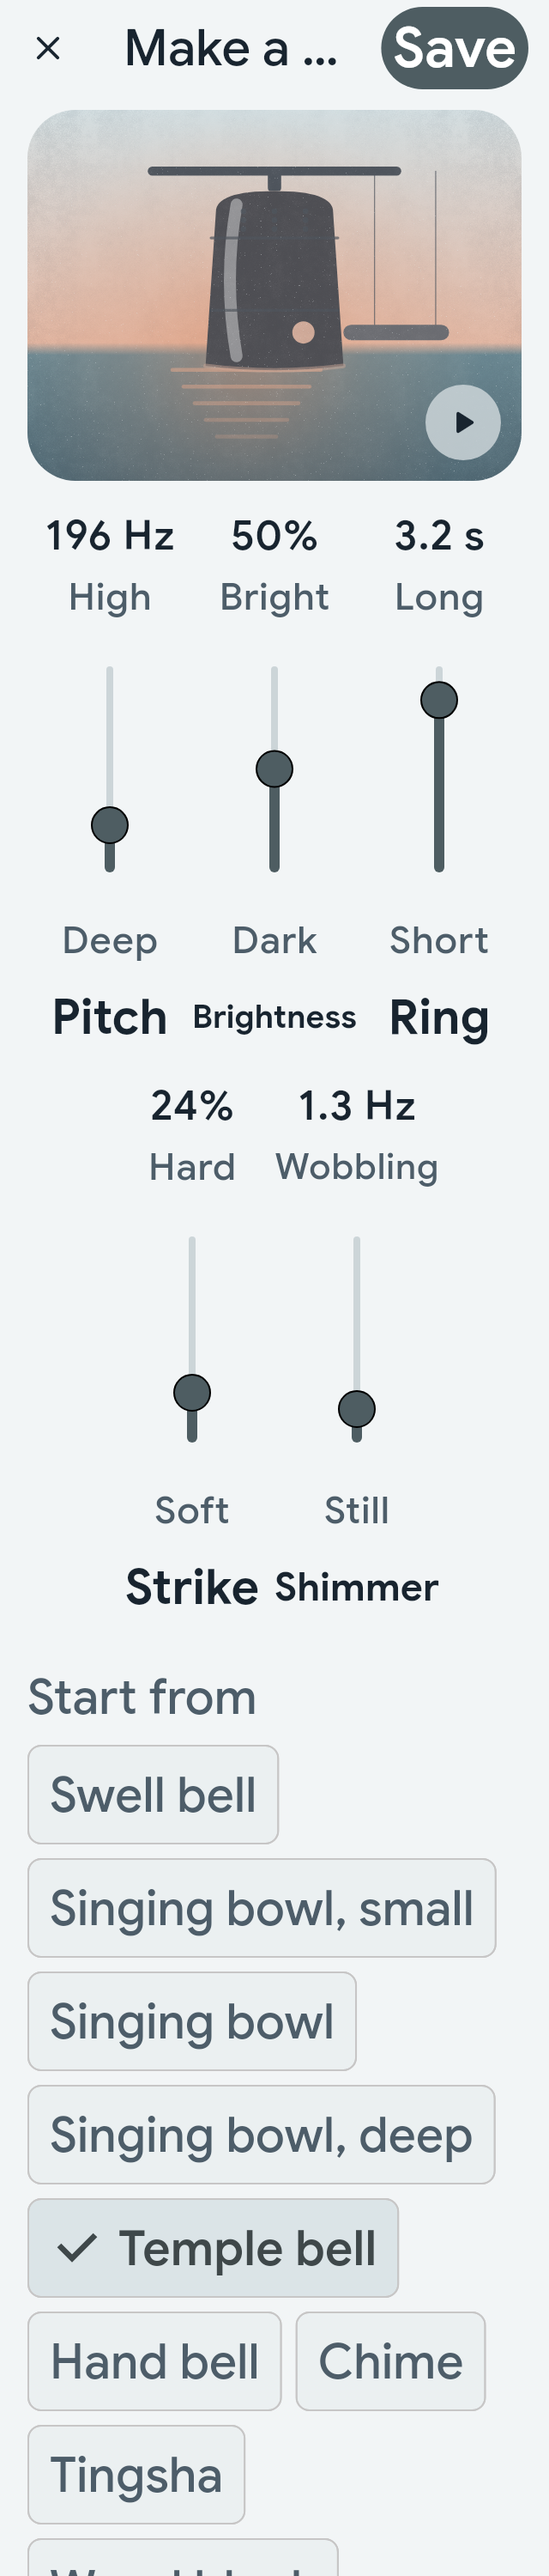
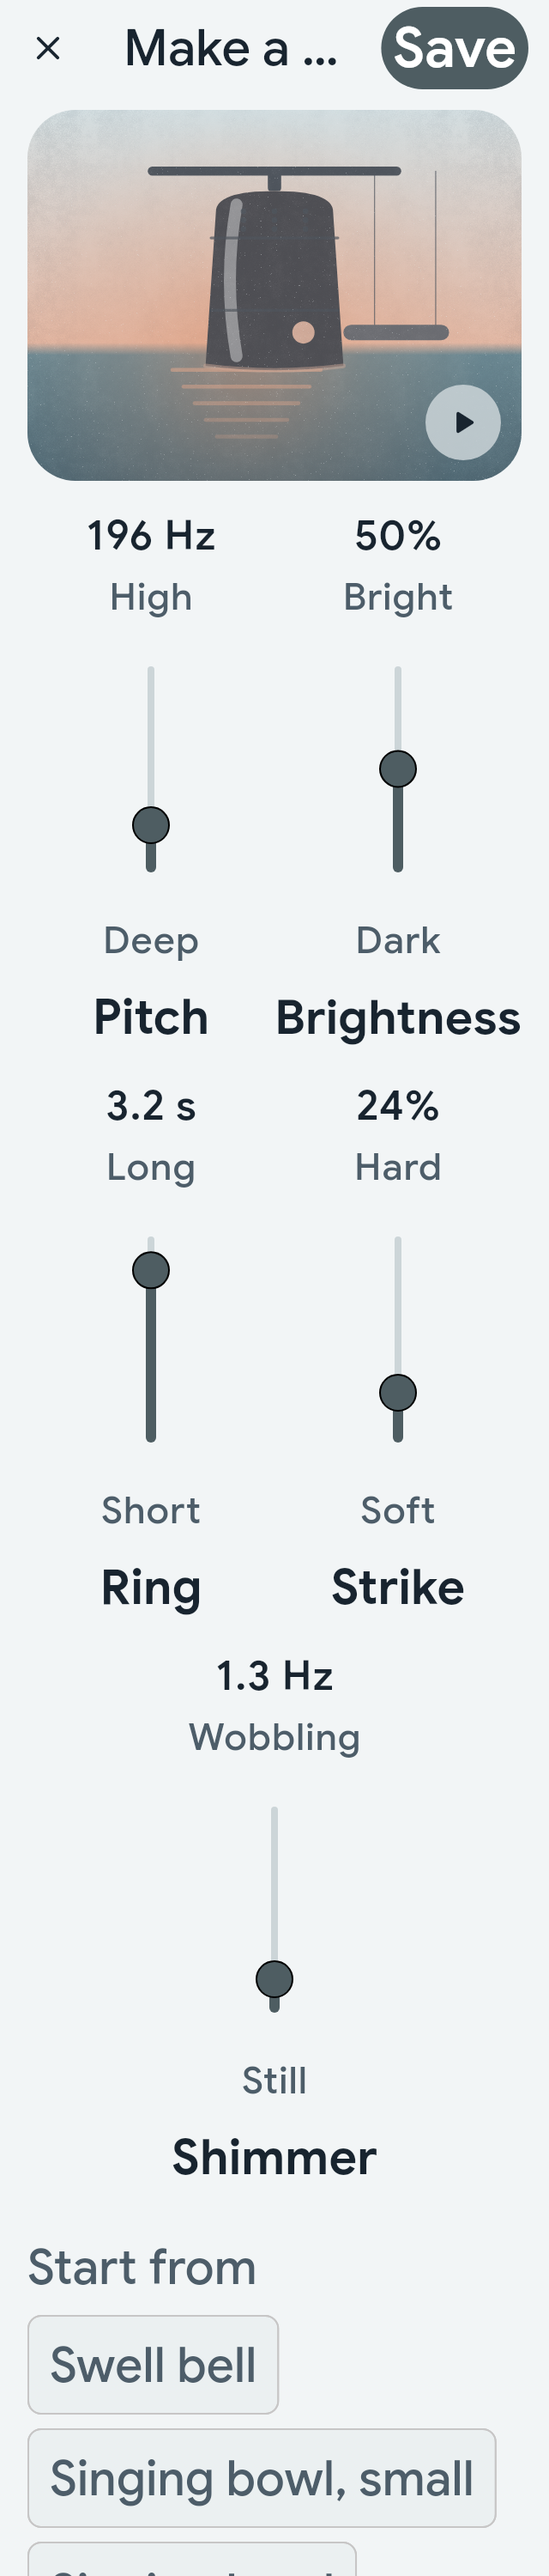
fix(bells): names keep the size asked for, one semantics node per control, RTL and unbounded-width safe
Opus review of 8dc28fc2: P2 names drew at 0.74-0.8x on 320 dp and gained nothing
at 130% text -> channel width grows in step with the text (64 dp base), so large
text wraps instead of shrinking the names; P2 the label sat on a node a screen
reader cannot adjust -> label and value on the slider's own node, the words
around it excluded; P3 rotated slider laid out left-to-right so up is more in
RTL; P3 RangeControlBank with no bounded width sits in one row; P3 the narrow
test now asserts 2+2+1. Screenshots regenerated; DECISIONS corrected.

Verified locally: range_control_test and bell_maker_test pass (24); analyze
clean on the touched dirs.

diff --git a/lib/widgets/inputs/range_control.dart b/lib/widgets/inputs/range_control.dart
@@ -67,16 +67,21 @@ class RangeControl extends StatelessWidget {
   double _fromTrack(double t) =>
       logarithmic ? min * math.pow(max / min, t) : min + t * (max - min);
 
-  Widget _slider() => Semantics(
-    label: label,
-    value: format(value),
-    child: Slider(
-      key: sliderKey,
-      value: _toTrack(value).clamp(0.0, 1.0),
-      onChanged: (t) => onChanged(_fromTrack(t)),
-      onChangeEnd: onChangeEnd == null
-          ? null
-          : (t) => onChangeEnd!(_fromTrack(t)),
+  // The label and the value in its units sit on the slider's own node, the one
+  // a screen reader adjusts, so it reads "Pitch, 400 Hz" and moving it speaks
+  // the new value in the same units.
+  Widget _slider() => MergeSemantics(
+    child: Semantics(
+      label: label,
+      child: Slider(
+        key: sliderKey,
+        value: _toTrack(value).clamp(0.0, 1.0),
+        semanticFormatterCallback: (t) => format(_fromTrack(t)),
+        onChanged: (t) => onChanged(_fromTrack(t)),
+        onChangeEnd: onChangeEnd == null
+            ? null
+            : (t) => onChangeEnd!(_fromTrack(t)),
+      ),
     ),
   );
 
@@ -95,11 +100,15 @@ class RangeControl extends StatelessWidget {
     // is lost. The fixed height keeps every channel's track at the same level
     // when one channel's word had to shrink.
     final scaler = MediaQuery.textScalerOf(context);
-    Widget line(String text, TextStyle? style) => SizedBox(
-      height: scaler.scale((style?.fontSize ?? 14) * (style?.height ?? 1.4)),
-      child: FittedBox(
-        fit: BoxFit.scaleDown,
-        child: Text(text, style: style, maxLines: 1),
+    // The words are for the eye: the slider's own node already says the name
+    // and the value, so a screen reader does not hear them twice.
+    Widget line(String text, TextStyle? style) => ExcludeSemantics(
+      child: SizedBox(
+        height: scaler.scale((style?.fontSize ?? 14) * (style?.height ?? 1.4)),
+        child: FittedBox(
+          fit: BoxFit.scaleDown,
+          child: Text(text, style: style, maxLines: 1),
+        ),
       ),
     );
     return Column(
@@ -110,8 +119,12 @@ class RangeControl extends StatelessWidget {
         line(high, muted),
         SizedBox(
           height: verticalTrack,
-          // The slider's left end is the bottom of the track.
-          child: RotatedBox(quarterTurns: 3, child: _slider()),
+          // The slider's left end is the bottom of the track, whichever way
+          // the text runs: up is more in every language.
+          child: Directionality(
+            textDirection: TextDirection.ltr,
+            child: RotatedBox(quarterTurns: 3, child: _slider()),
+          ),
         ),
         line(low, muted),
         const SizedBox(height: 8),
@@ -155,16 +168,17 @@ class RangeControl extends StatelessWidget {
 }
 
 /// Vertical [RangeControl]s side by side. Each gets a column about
-/// [columnWidth] wide at the normal text size, and half as much again as the
-/// text grows (the words in a column shrink to fit rather than the column
-/// growing to the words, so large text does not push the channels one to a
-/// row); the columns share the width, and when they do not fit in one row the
-/// rest continue in the next, so nothing is clipped or scrolled out of reach.
+/// [columnWidth] wide at the normal text size and as much wider as the text
+/// is larger, so the name a person asked to see large is not drawn small; the
+/// columns share the width, and when they do not fit in one row the rest
+/// continue in the next, so nothing is clipped or scrolled out of reach. In
+/// room without a width (a horizontal scroll view) they sit in one row at
+/// that width.
 class RangeControlBank extends StatelessWidget {
   const RangeControlBank({
     super.key,
     required this.children,
-    this.columnWidth = 56,
+    this.columnWidth = 64,
   });
 
   final List<Widget> children;
@@ -172,10 +186,19 @@ class RangeControlBank extends StatelessWidget {
 
   @override
   Widget build(BuildContext context) {
-    final grown = MediaQuery.textScalerOf(context).scale(1);
-    final wanted = columnWidth * (1 + (grown - 1) * 0.5);
+    final wanted = MediaQuery.textScalerOf(context).scale(columnWidth);
     return LayoutBuilder(
       builder: (context, box) {
+        if (!box.hasBoundedWidth) {
+          return Row(
+            mainAxisSize: MainAxisSize.min,
+            crossAxisAlignment: CrossAxisAlignment.start,
+            children: [
+              for (final child in children)
+                SizedBox(width: wanted, child: child),
+            ],
+          );
+        }
         final perRow = children.isEmpty
             ? 1
             : (box.maxWidth / wanted).floor().clamp(1, children.length);

diff --git a/test/widgets/inputs/range_control_test.dart b/test/widgets/inputs/range_control_test.dart
@@ -1,4 +1,5 @@
 import 'package:flutter/material.dart';
+import 'package:flutter/semantics.dart';
 import 'package:flutter_test/flutter_test.dart';
 import 'package:medito/widgets/inputs/range_control.dart';
 
@@ -132,6 +133,65 @@ void main() {
     });
   });
 
+  group('vertical, more', () {
+    Widget control({List<double>? moved, TextDirection? dir}) => MaterialApp(
+      builder: (context, child) => Directionality(
+        textDirection: dir ?? TextDirection.ltr,
+        child: child!,
+      ),
+      home: Scaffold(
+        body: Center(
+          child: SizedBox(
+            width: 72,
+            child: RangeControl(
+              axis: Axis.vertical,
+              sliderKey: const ValueKey('range'),
+              label: 'Pitch',
+              low: 'Deep',
+              high: 'High',
+              min: 100,
+              max: 1600,
+              value: 400,
+              logarithmic: true,
+              format: (v) => '${v.round()} Hz',
+              onChanged: (v) => moved?.add(v),
+            ),
+          ),
+        ),
+      ),
+    );
+
+    testWidgets('up is more in a right-to-left language too', (tester) async {
+      final moved = <double>[];
+      await tester.pumpWidget(control(moved: moved, dir: TextDirection.rtl));
+      await tester.drag(
+        find.byKey(const ValueKey('range')),
+        const Offset(0, -40),
+      );
+      expect(moved.last, greaterThan(400));
+    });
+
+    testWidgets('a screen reader gets the name and the value on the slider', (
+      tester,
+    ) async {
+      final semantics = tester.ensureSemantics();
+      await tester.pumpWidget(control());
+      // The slider's node carries both the name and the value in the control's
+      // own units: one thing to adjust, read once.
+      final named = find.semantics.byLabel('Pitch');
+      final valued = find.semantics.byValue('400 Hz');
+      expect(named, findsOneWidget);
+      expect(valued, findsOneWidget);
+      // Merged: the value node is folded into the one that has the name.
+      final value = valued.evaluate().single;
+      expect(value.isMergedIntoParent, isTrue);
+      expect(value.parent!.id, named.evaluate().single.id);
+      expect(find.semantics.byAction(SemanticsAction.increase), findsWidgets);
+      expect(find.semantics.byLabel('High'), findsNothing);
+      semantics.dispose();
+    });
+  });
+
   group('RangeControlBank', () {
     Future<void> pumpBank(
       WidgetTester tester, {
@@ -186,8 +246,8 @@ void main() {
         tester.getTopLeft(find.byKey(ValueKey(name))),
     ];
 
-    testWidgets('five channels share a row on a small phone', (tester) async {
-      await pumpBank(tester, width: 320);
+    testWidgets('five channels share a row on a 360 dp phone', (tester) async {
+      await pumpBank(tester, width: 360);
       expect(tester.takeException(), isNull);
       final t = tops(tester);
       expect(t.map((o) => o.dy).toSet(), hasLength(1));
@@ -203,12 +263,47 @@ void main() {
       await pumpBank(tester, width: 360, textScale: 2);
       expect(tester.takeException(), isNull);
       final t = tops(tester);
-      expect(t.map((o) => o.dy).toSet().length, greaterThan(1));
+      // 128 dp a channel in 328: two to a row, so 2 + 2 + 1.
+      expect(t.map((o) => o.dy).toSet(), hasLength(3));
       for (final name in ['Pitch', 'Brightness', 'Ring', 'Strike', 'Shimmer']) {
         final rect = tester.getRect(find.byKey(ValueKey(name)));
         expect(rect.left, greaterThanOrEqualTo(0));
         expect(rect.right, lessThanOrEqualTo(360));
       }
     });
+  });
+
+  testWidgets('a bank with no width to fill sits in one row', (tester) async {
+    await tester.pumpWidget(
+      MaterialApp(
+        home: Scaffold(
+          body: SingleChildScrollView(
+            scrollDirection: Axis.horizontal,
+            child: RangeControlBank(
+              children: [
+                for (var i = 0; i < 3; i++)
+                  RangeControl(
+                    axis: Axis.vertical,
+                    sliderKey: ValueKey('c$i'),
+                    label: 'C$i',
+                    low: 'Low',
+                    high: 'High',
+                    min: 0,
+                    max: 1,
+                    value: 0.5,
+                    format: (v) => '$v',
+                    onChanged: (_) {},
+                  ),
+              ],
+            ),
+          ),
+        ),
+      ),
+    );
+    expect(tester.takeException(), isNull);
+    expect({
+      for (var i = 0; i < 3; i++)
+        tester.getTopLeft(find.byKey(ValueKey('c$i'))).dy,
+    }, hasLength(1));
   });
 }

diff --git a/test/views/cues/bell_maker_test.dart b/test/views/cues/bell_maker_test.dart
@@ -190,19 +190,29 @@ void main() {
     tester,
   ) async {
     await _setUp(tester);
-    tester.view.physicalSize = const Size(320, 2200);
+    tester.view.physicalSize = const Size(320, 4000);
     await tester.pumpWidget(
       _app(const BellMakerView(from: temple), textScale: 2),
     );
     await tester.pump();
     expect(tester.takeException(), isNull);
+    final rects = <Rect>[];
     for (final n in ['pitch', 'bright', 'ring', 'strike', 'shimmer']) {
       final slider = find.byKey(ValueKey('bell_maker_$n'));
-      await tester.ensureVisible(slider);
       final r = tester.getRect(slider);
       expect(r.left, greaterThanOrEqualTo(0));
       expect(r.right, lessThanOrEqualTo(320));
+      rects.add(r);
     }
+    // 128 dp a channel in 288: two to a row, so 2 + 2 + 1, each channel whole.
+    final rows = rects.map((r) => r.top.round()).toSet();
+    expect(rows, hasLength(3), reason: 'rows of 2, 2 and 1');
+    expect(rects.map((r) => r.top.round()).toList().sublist(0, 4), [
+      rects[0].top.round(),
+      rects[0].top.round(),
+      rects[2].top.round(),
+      rects[2].top.round(),
+    ]);
     await tester.pumpWidget(const SizedBox.shrink());
   });
 

diff --git a/docs/fork/DECISIONS.md b/docs/fork/DECISIONS.md
@@ -1088,7 +1088,9 @@ Burooj on the combined test APK: "Make a bell is cool. I'd rather have sliders b
 - **The five controls are vertical sliders side by side**, like a mixing desk, under the live bell figure. Each channel reads, top to bottom: the value in its units, the word for the high end, the track (low at the bottom, so up is more), the word for the low end, then the name. Ring on release is unchanged (`onChangeEnd` rings the bell).
 - **Built into `RangeControl`, not beside it.** `RangeControl(axis: Axis.vertical)` is one channel; `RangeControlBank` sets channels side by side. Horizontal stays the default, so #71 can use either for the other sounds' editors (noise bands, which are already vertical, are the obvious first). The track is `RangeControl.verticalTrack` (168 dp) long.
 - **The sliders moved above "Start from".** With the chips first, the sliders sat below four rows of chips on a phone and the figure had scrolled away by the time a person was dragging; the figure and the five channels now share the screen (checked at 1080 × 2340 at 2.625). Order: figure, controls, Start from, name. The Name field has more room above it (its floating label touched the Pitch label before).
-- **Narrow screens and large text.** A channel is about 56 dp wide, 28 dp wider per doubling of the text size (the words in a channel shrink to fit, one line each, rather than the channel growing to the words). Five channels share a row on a 320 dp screen at normal size; at 200% text on 320 dp they wrap 3 + 2, centred, with nothing clipped and nothing to scroll sideways. Cost, named: at 200% the longest words ("Brightness", German "Nachklang") render at about 1.4× instead of 2×, so they are bigger than normal text but smaller than the person asked for. Fixed line heights keep every channel's track level when one channel's word has to shrink.
+- **Narrow screens and large text.** A channel is 64 dp wide at the normal text size and grows in step with it (128 dp at 200%), and the names are not shrunk below the size the person asked for: five channels share a row on a 360 dp phone and on the S23+ at normal size, and wrap as the text grows (at 200% on 320 dp they are 2 + 2 + 1, centred; nothing is clipped, nothing scrolls sideways). The cost, named: on a 320 dp screen at normal size they are 4 + 1 (a 64 dp channel does not fit five times), and at about 130% text and above the S23+ also wraps (4 + 1). An earlier version let the channel grow by only half the text growth and shrank the words to fit; an independent review measured the names at 0.74–0.8× of normal size on 320 dp and at no larger than normal at 130% text, which defeats a person's text size, so it was reverted. The end words and the value still shrink to fit (one line each); fixed line heights keep every channel's track level when one has to.
+- **Screen readers.** The slider's own node carries the name and the value in its units ("Pitch, 400 Hz", and moving it says "459 Hz"); the words drawn around the track are excluded from semantics so nothing is read twice. Up is more under right-to-left text too (the rotated slider is laid out left-to-right).
+- **A swipe that starts on a track moves the control, not the page.** Vertical sliders in a scrolling page cannot avoid this: scroll from the gaps between channels, the labels, or the figure. A track is a 48 dp strip in a channel 64 dp or wider.
 - **Not done:** at 200% text on 320 dp the app bar title reads "Make a …" (the Save button takes the room); that is the bar's, not this change's.
-- **Tests:** `range_control_test` (vertical order of the parts, dragging up raises the value, the bank's rows at 320 dp and at 200% on 360 dp) and `bell_maker_test` (five vertical tracks in one row; 320 dp at 200% keeps every control inside the screen). **Screenshots:** `docs/fork/design/bell-maker-{light,dark}.png` and `bell-maker-narrow-large-text-{light,dark}.png`, from `MEDITEJO_SCREENSHOTS=1 flutter test test/screenshots/design_screenshots_test.dart --plain-name "Bell maker"`.
-- **For Burooj:** whether five channels at that width are comfortable to hit with a thumb on the S23+ (a channel is about 76 dp wide there, the thumb 48 dp); whether the end words belong above and below the track or are noise once the figure moves with each control.
+- **Tests:** `range_control_test` (vertical order of the parts, dragging up raises the value, also in right-to-left; name and value on one semantics node; the bank's rows at 360 dp and at 200% on 360 dp; a bank with no width) and `bell_maker_test` (five vertical tracks in one row; 320 dp at 200% is 2 + 2 + 1 with every control inside the screen). **Screenshots:** `docs/fork/design/bell-maker-{light,dark}.png` and `bell-maker-narrow-large-text-{light,dark}.png`, from `MEDITEJO_SCREENSHOTS=1 flutter test test/screenshots/design_screenshots_test.dart --plain-name "Bell maker"`.
+- **For Burooj:** whether five channels at that width are comfortable to hit with a thumb on the S23+ (a channel is about 76 dp wide there with the track 48 dp across); whether the end words belong above and below the track or are noise once the figure moves with each control.
